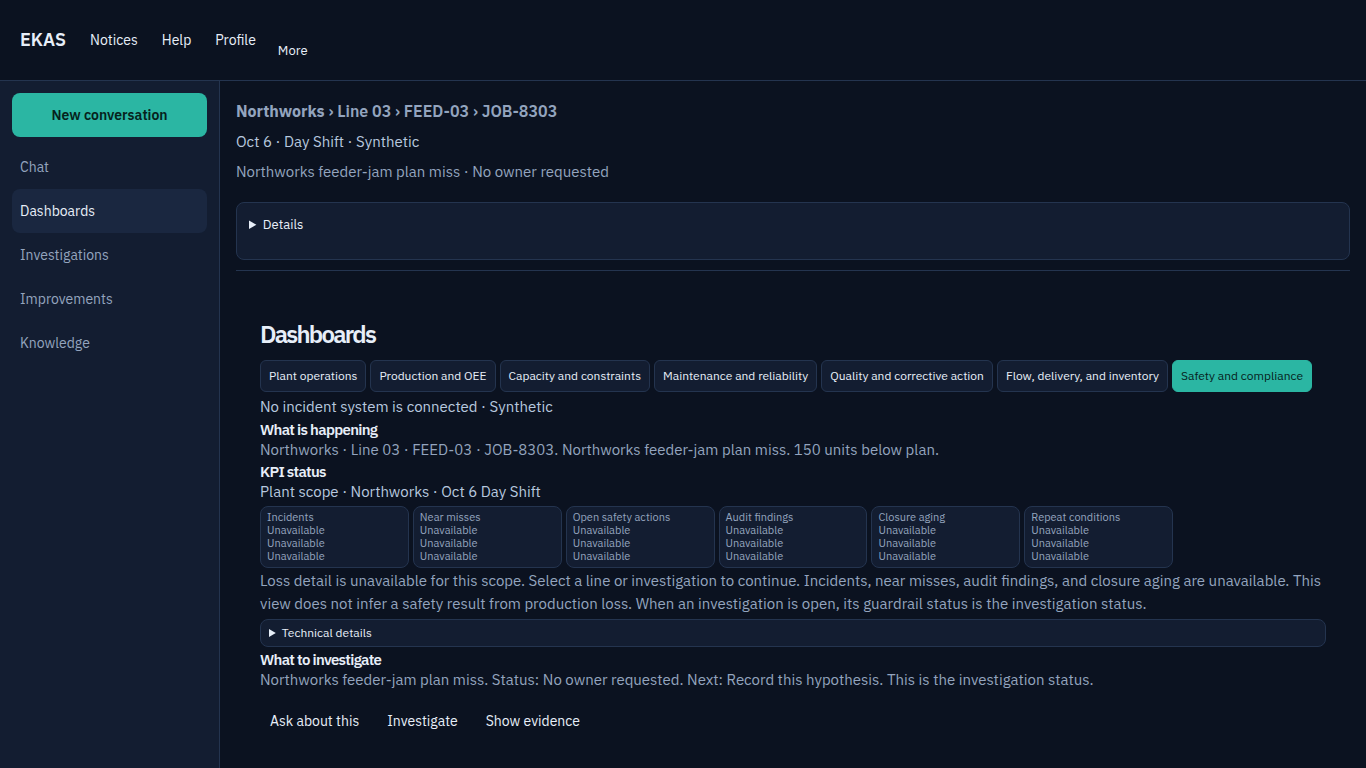
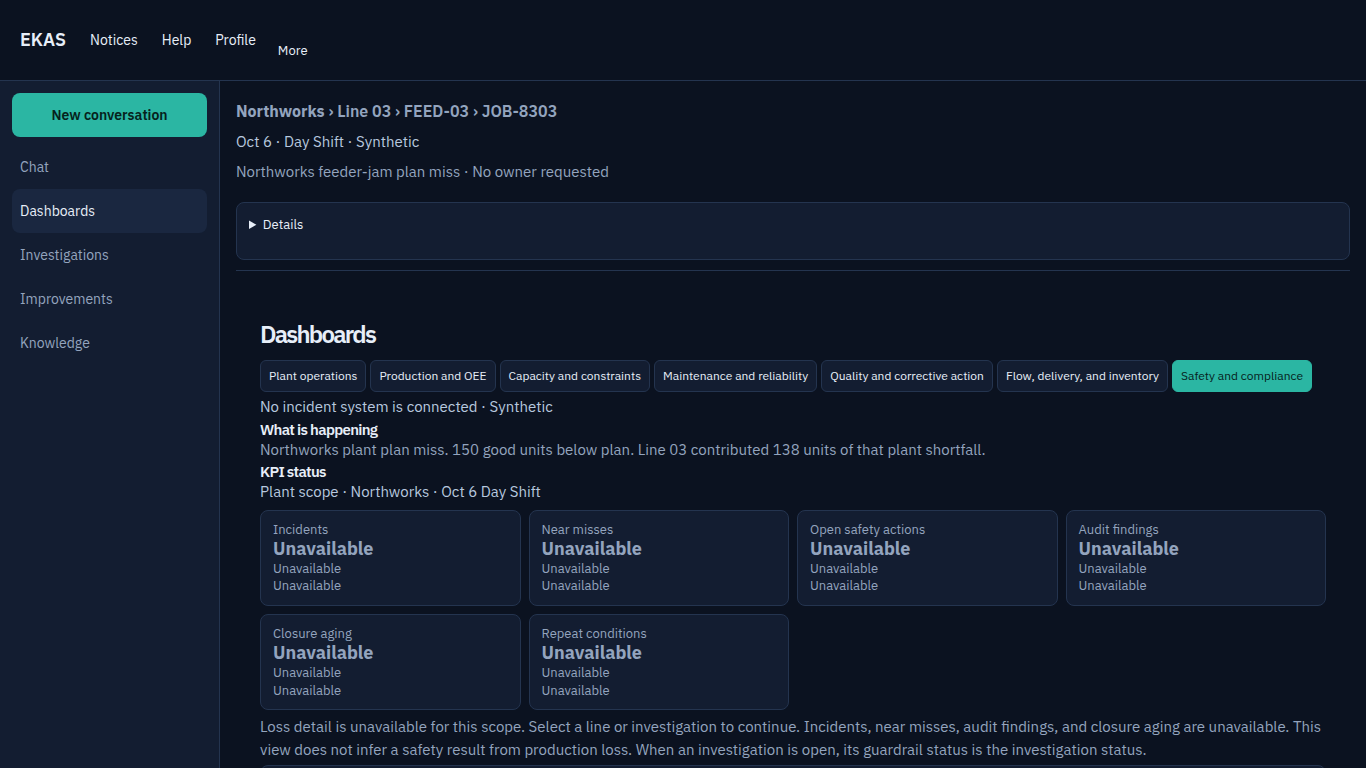
Recapture the plant-shortfall proof at 1366, 390, and 320.
Show the 150-unit plant miss beside Line 03's 138-unit contribution, the readable KPI row, and the same Why and Investigate answers.

Changed region(s): [[0.1845, 0.6562, 0.9839, 1.0], [0.246, 0.5625, 0.7072, 0.5938]]

diff --git a/e2e/dashboard-wp5.spec.ts b/e2e/dashboard-wp5.spec.ts
@@ -149,8 +149,9 @@ test('plant operations selects Line 03, explains the 150-unit gap, and opens the
   await expectTopInView(dashboard.getByRole('heading', { name: 'KPI status' }), 768);
   await expectTopInView(planFigure.locator('.highcharts-container'), 768);
   const planBox = await planFigure.locator('.highcharts-container').boundingBox();
-  expect(planBox && planBox.y + 80 < 768).toBeTruthy();
-  await expectTopInView(planFigure.locator('figcaption'), 768);
+  expect(planBox && planBox.y + 60 < 768).toBeTruthy();
+  const kpiBottom = await dashboard.locator('.ekas-dash-kpis').boundingBox();
+  expect(kpiBottom && kpiBottom.y + kpiBottom.height < 768).toBeTruthy();
   await expectNoOverflow(page);
   await shot(page, 'A-plant-operations-top');
 
@@ -242,9 +243,10 @@ test('plant operations selects Line 03, explains the 150-unit gap, and opens the
   await scrollTop(page);
   await expectTopInView(dashboard.getByRole('tab', { name: 'Production and OEE' }), 768);
   await expectTopInView(dashboard.getByRole('heading', { name: 'KPI status' }), 768);
-  await expectTopInView(dashboard.locator('[data-chart-id="apq"] .highcharts-container'), 768);
-  const apqBox = await dashboard.locator('[data-chart-id="apq"] .highcharts-container').boundingBox();
-  expect(apqBox && apqBox.y + 60 < 768).toBeTruthy();
+  const productionKpis = await dashboard.locator('.ekas-dash-kpis').boundingBox();
+  expect(productionKpis && productionKpis.y + productionKpis.height < 768).toBeTruthy();
+  await expect(dashboard.locator('.ekas-dash-kpis')).toContainText('No governed target');
+  await expect(dashboard.locator('.ekas-dash-kpis')).toContainText('Not evaluated');
   await expectNoOverflow(page);
   await shot(page, 'B-production-oee-kpis');
   await dashboard.getByRole('tab', { name: 'Capacity and constraints' }).click();
